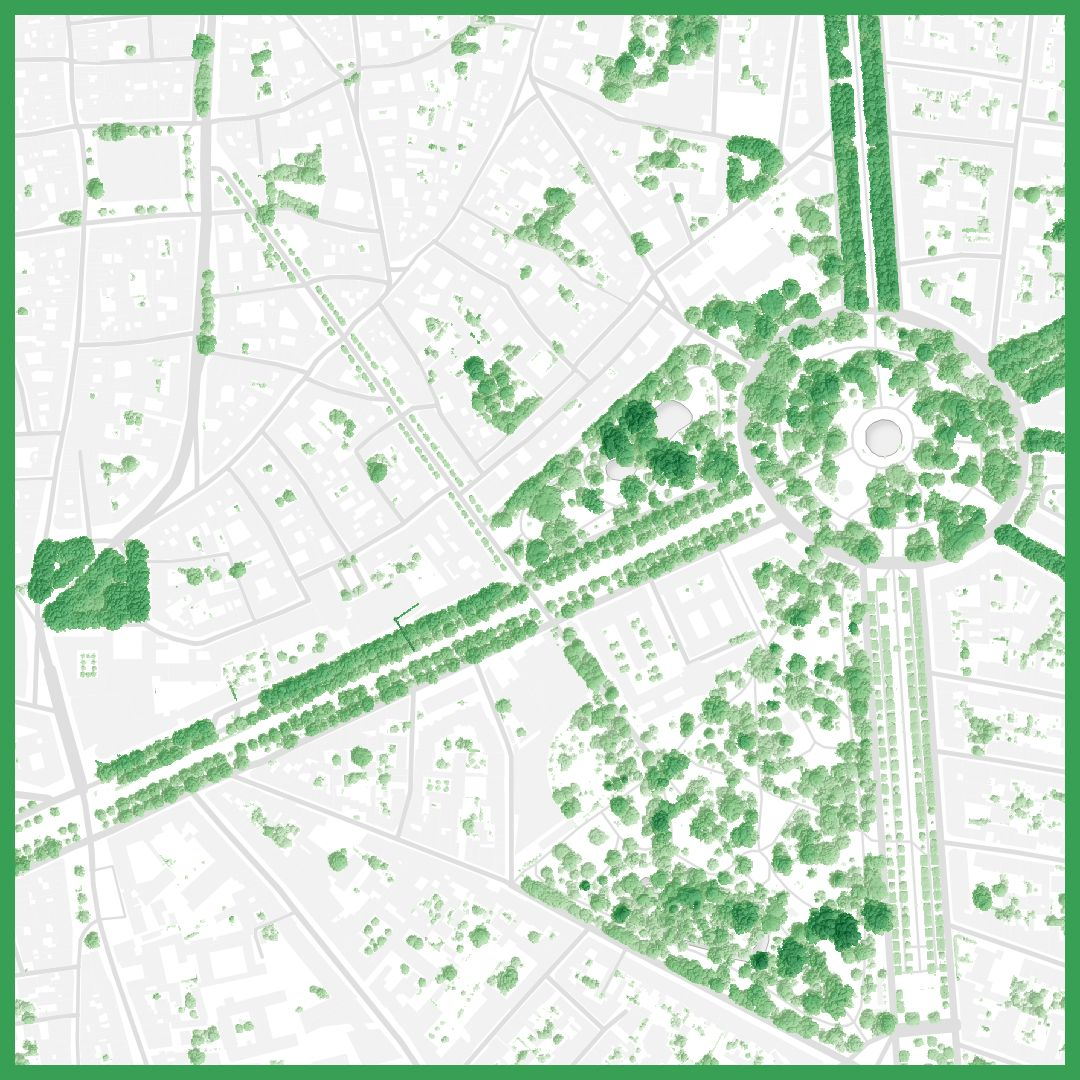
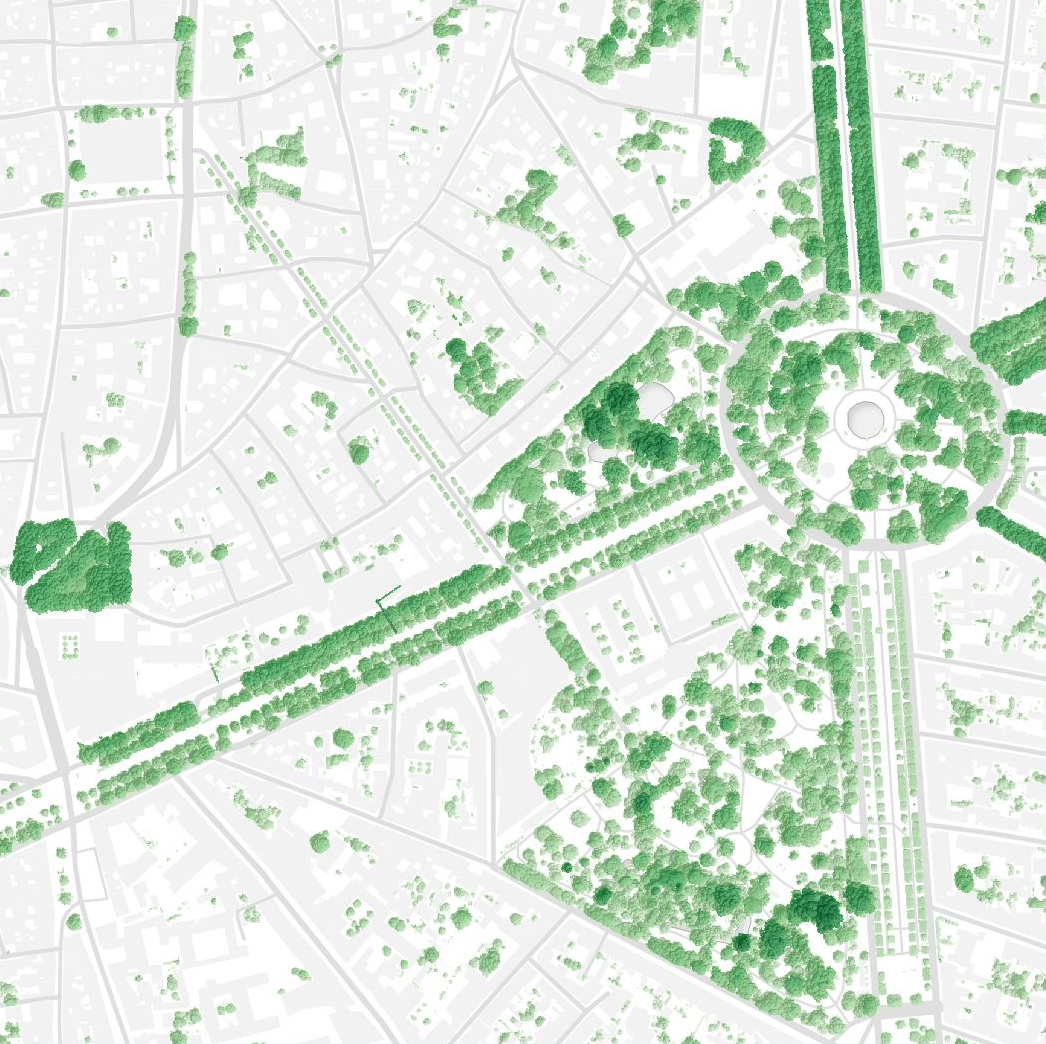
Page Canopée

diff --git a/src/lib/projects/projects.ts b/src/lib/projects/projects.ts
@@ -1,14 +1,27 @@
 import type { Projects } from '$lib/types';
 import ensoleillement from "$lib/projects/assets/ensoleillement.md?raw"
 import europeennes2024 from "$lib/projects/assets/europeennes-2024.md?raw";
+import canopeeLidarHd from "$lib/projects/assets/canopee-lidarhd.md?raw";
+import visionscartoCircos from "$lib/projects/assets/visionscarto-circos.md?raw";
+import seqeUe from "$lib/projects/assets/seqe-ue.md?raw";
+import icuParisNacis from "$lib/projects/assets/icu-paris-nacis.md?raw";
+import icuMediapart from "$lib/projects/assets/icu-mediapart.md?raw";
+
+
 
 const projects: Projects = {
 	"ensoleillement": {
 		title: "Ensoleillement",
 		thumbnail: "/projects/ensoleillement-thumb.jpg",
 		images: [
-			{ path: '/projects/ensoleillement-nice.jpg', alt: '', title: "Quartier du Vieux-Nice, 18 juillet 2024" },
-			{ path: '/projects/ensoleillement-blois.png', alt: '', title: "Centre-ville de Blois, 21 juin 2024" }
+			{
+				path: '/projects/ensoleillement-nice.jpg', alt: '',
+				title: "Quartier du Vieux-Nice, 18 juillet 2024"
+			},
+			{
+				path: '/projects/ensoleillement-blois.png', alt: '',
+				title: "Centre-ville de Blois, 21 juin 2024"
+			}
 		],
 		shortDesc: `
 			Cartes d’ensoleillement réalisées à partir de modèles numériques de surface. 
@@ -21,8 +34,14 @@ const projects: Projects = {
 		title: "Résultats des élections européennes 2024",
 		thumbnail: "/projects/europeennes-2024-thumb.jpg",
 		images: [
-			{ path: '/projects/europeennes-2024-cartogramme.png', alt: '', title: "Cartogramme des résultats" },
-			{ path: '/projects/europeennes-2024-densite-points.png', alt: '', title: "Carte en densité de points des résultats" }
+			{
+				path: '/projects/europeennes-2024-cartogramme.png', alt: '',
+				title: "Cartogramme des résultats"
+			},
+			{
+				path: '/projects/europeennes-2024-densite-points.png', alt: '',
+				title: "Carte en densité de points des résultats"
+			}
 		],
 		shortDesc: `
 	    Expérimentations cartographiques pour essayer de representer de façon plus juste les votant·es.
@@ -33,25 +52,23 @@ const projects: Projects = {
 		title: "Canopée des villes françaises",
 		thumbnail: "/projects/canopee-lidarhd-thumb.jpg",
 		images: [
-			{ path: '/projects/canope-toulouse.png', alt: 'Lorem ipsum' }
+			{ path: '/projects/canope-toulouse.png', alt: '' }
 		],
-		shortDesc: `
-		Extraction de la canopée à partir des données LidarHD de l’IGN.
-		`,
-		fullDesc: `
-		`
+		shortDesc: "Extraction de la canopée à partir des données LidarHD de l’IGN.",
+		fullDesc: canopeeLidarHd
 	},
 	"visionscarto-circos": {
 		title: "« Quel est votre poids électoral ? »",
 		thumbnail: "/projects/visionscarto-circos-thumb.jpg",
 		images: [
-			{ path: '/projects/visionscarto-circos.png', alt: 'Lorem ipsum' }
+			{ path: '/projects/visionscarto-circos.png', alt: '' }
 		],
 		shortDesc: `
 			Les circonscriptions électorales ont un nombre très différent d’inscrit·es.
-			Sachant que chaque circonscription élit un·e seul·e député·e, plus il y a d’électeurs ou d’électrices, moins le « poids » individuel est important.
+			Sachant que chaque circonscription élit un·e seul·e député·e, plus il y a d’électeurs ou 
+			d’électrices, moins le « poids » individuel est important.
 		`,
-		fullDesc: `https://www.visionscarto.net/quel-est-votre-poids-electoral`,
+		fullDesc: visionscartoCircos, //`https://www.visionscarto.net/quel-est-votre-poids-electoral`,
 		coAuthors: ["Philippe Rivière"]
 	},
 
@@ -59,48 +76,51 @@ const projects: Projects = {
 		title: "Les émissions industrielles de gaz à effet de serre ",
 		thumbnail: "/projects/seqe-ue-thumb.jpg",
 		images: [
-			{ path: '/projects/seqe-ue-fr-2023-1080.png', alt: 'Lorem ipsum' },
-			{ path: '/projects/seqe-ue-eu-2023-1080.png', alt: 'Lorem ipsum' }
+			{ path: '/projects/seqe-ue-fr-2023-1080.png', alt: '' },
+			{ path: '/projects/seqe-ue-eu-2023-1080.png', alt: '' }
 		],
 		shortDesc: `
 			Cartographies diverses des émissions vérifiées de GES des installations soumises au système d’échange de quotas d’émissions de l’UE.
 		`,
-		fullDesc: `
-	    Depuis 2019 je maintiens un jeu de données, etc.
+		fullDesc: seqeUe,
+		// `
+		//   Depuis 2019 je maintiens un jeu de données, etc.
 
-	    - données [data.gouv](https://www.data.gouv.fr/fr/datasets/emissions-de-gaz-a-effet-de-serre-des-installations-soumises-a-quota-de-lue/#/information)
-		`
+		//   - données [data.gouv](https://www.data.gouv.fr/fr/datasets/emissions-de-gaz-a-effet-de-serre-des-installations-soumises-a-quota-de-lue/#/information)
+		// `
 	},
 	"icu-paris-nacis": {
 		title: "Les ilots de chaleur parisiens",
 		thumbnail: "/projects/icu-paris-nacis-thumb.jpg",
 		images: [
-			{ path: '/projects/icu-paris-nacis-1080.png', alt: 'Lorem ipsum' }
+			{ path: '/projects/icu-paris-nacis-1080.png', alt: '' }
 		],
 		shortDesc: `
 			Représentation des ilots de chaleur parisiens. Réalisation dans le cadre d’une soumission au Volume VI de 
 			“l’Atlas of Design” de la NACIS. 
 		`,
-		fullDesc: `
-			NACIS 2022 Atlas of Design  [Mention honorable](https://atlasofdesign.org/2022/04/29/finalists/)
-		`
+		fullDesc: icuParisNacis
+		// `
+		// 	NACIS 2022 Atlas of Design  [Mention honorable](https://atlasofdesign.org/2022/04/29/finalists/)
+		// `
 	},
 	"icu-mediapart": {
 		title: "« Inégalités climatiques : comment les riches accaparent les espaces verts »",
 		thumbnail: "/projects/icu-mediapart-thumb.jpg",
 		images: [
-			{ path: '/projects/icu-mediapart-lille-env.png', alt: 'Lorem ipsum' },
-			{ path: '/projects/icu-mediapart-lille-orthophoto.png', alt: 'Lorem ipsum' },
-			{ path: '/projects/icu-mediapart-lille-temperatures.png', alt: 'Lorem ipsum' },
-			{ path: '/projects/icu-mediapart-lille-niveau-de-vie.png', alt: 'Lorem ipsum' },
-			{ path: '/projects/icu-mediapart-lille-vulnerabilites.png', alt: 'Lorem ipsum' },
+			{ path: '/projects/icu-mediapart-lille-env.png', alt: '' },
+			{ path: '/projects/icu-mediapart-lille-orthophoto.png', alt: '' },
+			{ path: '/projects/icu-mediapart-lille-temperatures.png', alt: '' },
+			{ path: '/projects/icu-mediapart-lille-niveau-de-vie.png', alt: '' },
+			{ path: '/projects/icu-mediapart-lille-vulnerabilites.png', alt: '' },
 		],
 		shortDesc: `
 	    Une collaboration avec Mediapart sur les possibles corrélations entre inégalités climatiques et inégalités sociales.
 		`,
-		fullDesc: `
-	    https://www.mediapart.fr/journal/ecologie/120823/inegalites-climatiques-comment-les-riches-accaparent-les-espaces-verts
-		`,
+		fullDesc: icuMediapart,
+		// `
+		//   https://www.mediapart.fr/journal/ecologie/120823/inegalites-climatiques-comment-les-riches-accaparent-les-espaces-verts
+		// `,
 		coAuthors: ["Mickaël Correia", "Donatien Huet"]
 	},
 };

diff --git a/src/lib/project-details.svelte b/src/lib/project-details.svelte
@@ -39,7 +39,7 @@
 	<meta name="description" content="Lorem Ipsum" />
 </svelte:head>
 
-<div class="flex flex-col gap-8 text-zinc-700 md:flex-row">
+<div class="flex flex-col gap-16 text-zinc-700 md:flex-row">
 	<div class="md:basis-5/12">
 		<div class="mb-0 text-lg md:relative md:-top-3.5 md:text-4xl">
 			<!-- https://rsms.me/inter/#glyphs/northWestArrow -->
@@ -48,9 +48,7 @@
 		<h2 class="font-title mb-2 text-lg font-bold md:text-2xl">
 			{data.title}
 		</h2>
-		<div
-			class="prose prose-sm prose-zinc hyphens-auto text-justify md:prose-base prose-p:text-zinc-600"
-		>
+		<div class="prose prose-sm prose-zinc hyphens-auto md:prose-base prose-p:text-zinc-600">
 			{@html converter.makeHtml(data.fullDesc || data.shortDesc)}
 		</div>
 		{@render displayAuthors(data?.coAuthors || [])}

diff --git a/src/routes/+page.svelte b/src/routes/+page.svelte
@@ -8,7 +8,7 @@
 	<meta name="description" content="Lorem Ipsum" />
 </svelte:head>
 
-<div class="flex flex-col gap-8 md:gap-20">
+<div class="m-auto flex max-w-4xl flex-col gap-8 md:gap-20">
 	{#each Object.entries(projects) as [slug, data], idx}
 		<ProjectThumbnail {idx} {slug} {data} />
 	{/each}

diff --git a/src/routes/+layout.svelte b/src/routes/+layout.svelte
@@ -19,7 +19,7 @@
 	</a>
 {/snippet}
 
-<div id="content" class="m-auto max-w-5xl px-5 py-8">
+<div id="content" class="m-auto max-w-7xl px-5 py-8">
 	<header
 		class="mb-4 flex flex-col border-b pb-4 text-center md:mb-16 md:flex-row md:justify-between md:text-left"
 	>

diff --git a/src/lib/projects/assets/canopee-lidarhd.md b/src/lib/projects/assets/canopee-lidarhd.md
@@ -1,0 +1,7 @@
+Les données [LiDAR HD](https://geoservices.ign.fr/lidarhd) de l’IGN permettent, au moins pour les
+endroits où l’acquisition n’a pas été faite en hiver, d’extraire de façon très fine
+la canopée d’une commune, et donc de calculer un indice de canopé précis.
+
+Ici, les données IGN ont été retraitées en R (à l’aide du package
+[lidR](https://r-lidar.github.io/lidRbook/index.html)) afin de ne conserver que la végétation de
+plus de 3 m.
